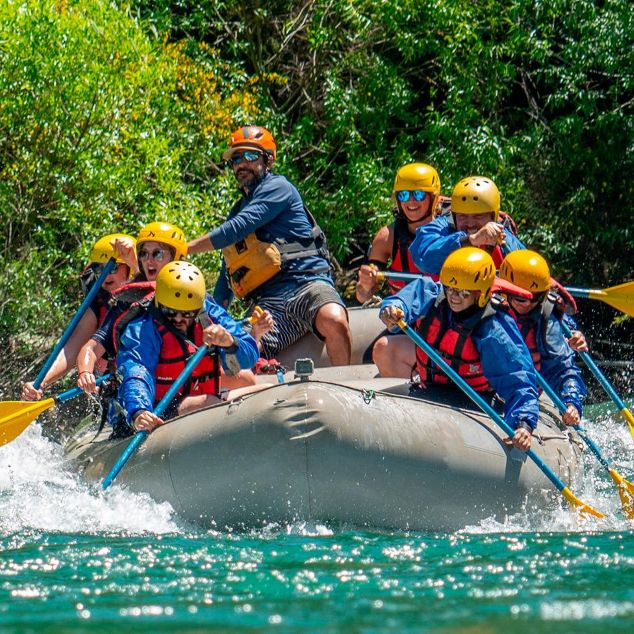
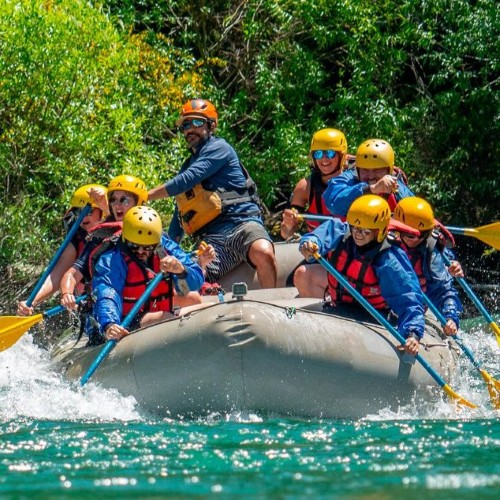
More changes of the same assignment.

Changed region(s): [[0.99, 0.6, 1.0, 0.66], [0.99, 0.78, 1.0, 0.81], [0.3, 0.33, 0.33, 0.36]]

diff --git a/wwr/about.html b/wwr/about.html
@@ -6,8 +6,7 @@
     <meta name="viewport" content="width=device-width, initial-scale=1.0">
     <title>About US | Sir Raftalot</title>
     <meta name="description" content="Welcome to our home page! Here, we present all information about our company, what we do, who
-    we are, and you can look for prices, promotions and availability. If its fun and adventureous rafting you're looking for, then
-    you're looking for Raftalot!">
+    we are, and you can look for prices, promotions and availability.">
     <meta name="author" content="Alex Gonzalez">
     <link rel="stylesheet" href="styles/rafting.css">
 </head>
